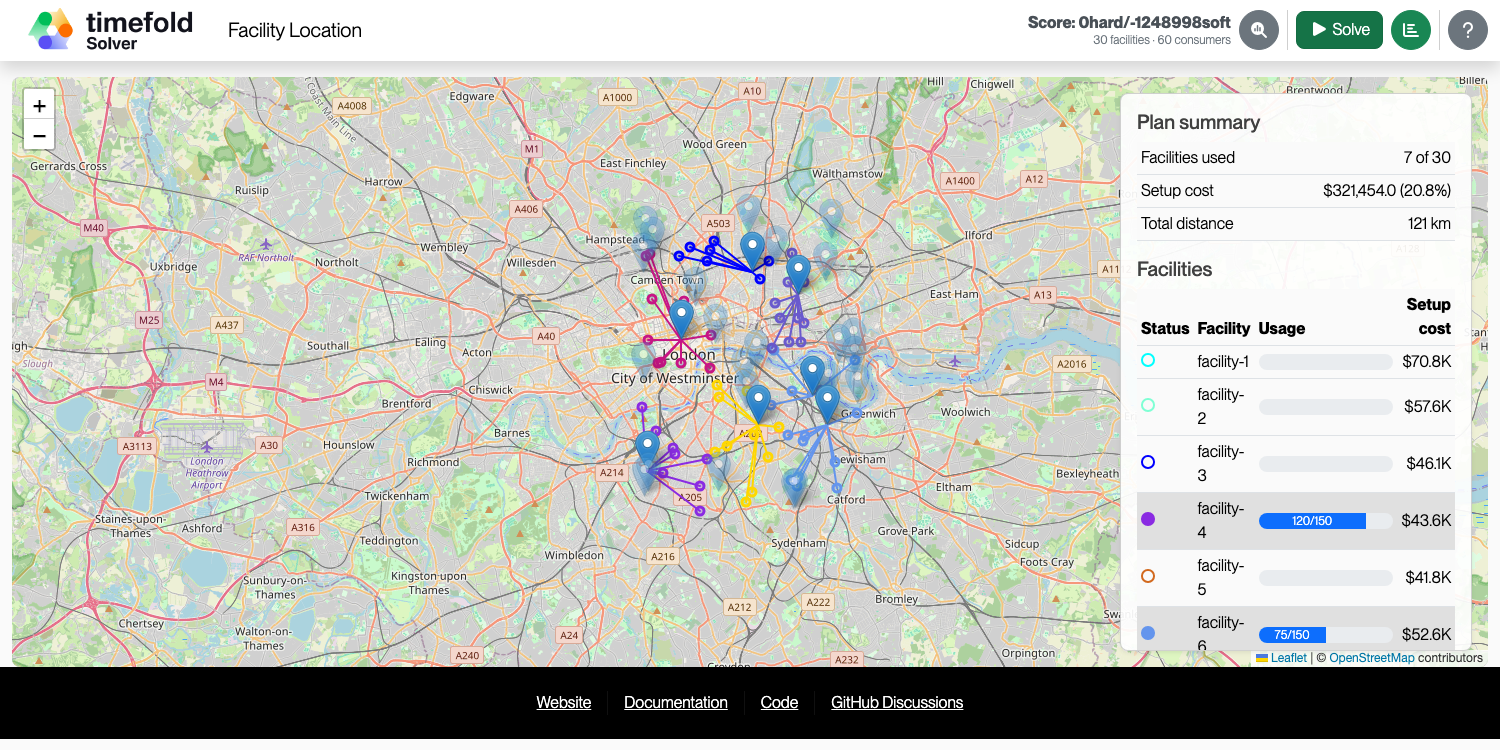
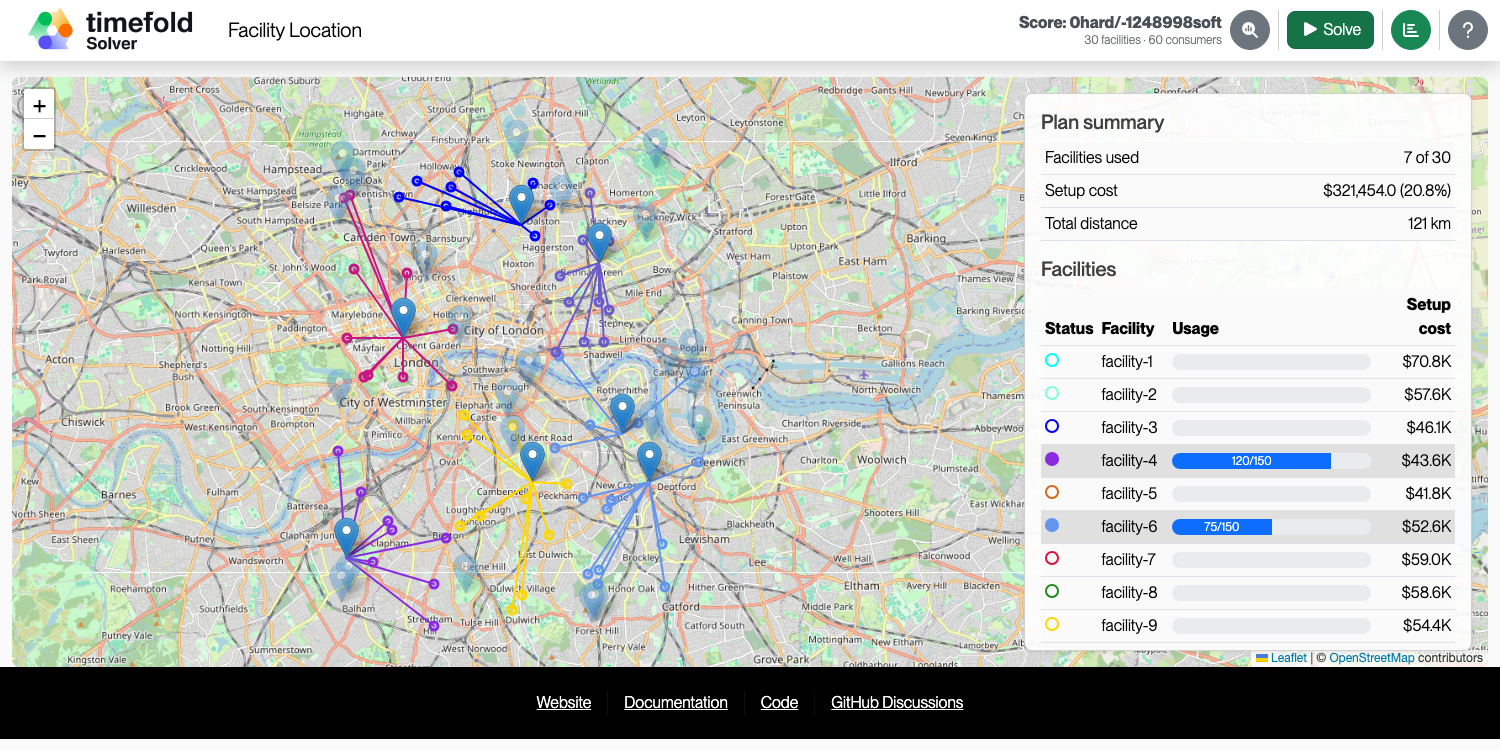
chore: minor review feedback

diff --git a/use-cases/facility-location/src/main/resources/META-INF/resources/visualize.js b/use-cases/facility-location/src/main/resources/META-INF/resources/visualize.js
@@ -42,7 +42,9 @@ const app = {
     </div>
 `);
 
-        this.map = L.map('map', {doubleClickZoom: false}).setView([51.505, -0.09], 12);
+        // A fractional zoomSnap lets fitBounds() zoom in as far as the data allows, instead of snapping down to the
+        // next whole zoom level and leaving up to half of the map empty.
+        this.map = L.map('map', {doubleClickZoom: false, zoomSnap: 0.25}).setView([51.505, -0.09], 12);
         L.tileLayer('https://{s}.tile.openstreetmap.org/{z}/{x}/{y}.png', {
             maxZoom: 19,
             attribution: '&copy; <a href="https://www.openstreetmap.org/">OpenStreetMap</a> contributors',
@@ -52,7 +54,7 @@ const app = {
         // Markers are reused across renders (a solving plan re-renders every 2 seconds), so the map does not
         // flicker and popups stay open while the solver keeps improving.
         this.facilityMarkerById = new Map();
-        this.boundsFitted = false;
+        this.fittedBounds = null;
 
         this.quickstartPage = new QuickstartPage({
             modelPath: '/v1/plans',
@@ -107,17 +109,45 @@ const app = {
     renderPlan(plan) {
         const facilityById = new Map(plan.facilities.map((facility) => [facility.id, facility]));
 
-        if (!this.boundsFitted && (plan.facilities.length > 0 || plan.consumers.length > 0)) {
-            // The input carries no bounding box, so the viewport is derived from the data itself.
-            const allLatLngs = [...plan.facilities, ...plan.consumers].map((point) => this.latLngOf(point.location));
-            this.map.invalidateSize();
-            this.map.fitBounds(L.latLngBounds(allLatLngs).pad(0.05));
-            this.boundsFitted = true;
-        }
-
+        this.fitBounds(plan);
         this.renderFacilities(plan);
         this.renderConsumers(plan, facilityById);
         this.renderSummary(plan);
+    },
+
+    // Only when the locations change (a new dataset): re-framing on every two-second refresh would undo whatever
+    // the user panned or zoomed to. The input carries no bounding box, so the viewport is derived from the data.
+    fitBounds(plan) {
+        const latLngs = [...plan.facilities, ...plan.consumers].map((point) => this.latLngOf(point.location));
+        if (latLngs.length === 0) {
+            return;
+        }
+        const boundsKey = JSON.stringify(latLngs);
+        if (this.fittedBounds === boundsKey) {
+            return;
+        }
+        this.fittedBounds = boundsKey;
+        // The map is constructed while the page body is still hidden, so Leaflet caches a 0x0 size; re-measure it.
+        this.map.invalidateSize();
+        const margin = 20;
+        // A facility pin sticks out above its location, so the top needs room for the whole icon.
+        const pinHeight = L.Icon.Default.prototype.options.iconSize[1];
+        this.map.fitBounds(L.latLngBounds(latLngs), {
+            paddingTopLeft: [margin, margin + pinHeight],
+            paddingBottomRight: [margin + this.summaryPanelOverlap(), margin],
+        });
+    },
+
+    // The plan summary floats over the right side of the map, so keep the data out from under it. On a narrow
+    // screen the panel covers most of the map, so there the data is fitted to the full map instead.
+    summaryPanelOverlap() {
+        const panel = document.getElementById('solutionSummaryPanel');
+        if (panel.classList.contains('hide')) {
+            return 0;
+        }
+        const mapRect = document.getElementById('map').getBoundingClientRect();
+        const overlap = mapRect.right - panel.getBoundingClientRect().left;
+        return overlap < mapRect.width / 2 ? overlap : 0;
     },
 
     renderFacilities(plan) {

diff --git a/use-cases/tournament-scheduling/src/main/resources/META-INF/resources/visualize.js b/use-cases/tournament-scheduling/src/main/resources/META-INF/resources/visualize.js
@@ -29,6 +29,7 @@ const app = {
         this.byTeamItemData = new vis.DataSet();
         this.byTeamTimeline = new vis.Timeline(document.getElementById("byTeamPanel"), this.byTeamItemData,
             this.byTeamGroupData, TIMELINE_OPTIONS);
+        this.fittedWindow = null;
 
         this.quickstartPage = new QuickstartPage({
             modelPath: '/v1/schedules',
@@ -118,12 +119,32 @@ const app = {
             });
         });
 
+        this.fitWindow(schedule);
+
         if (unassignedMatches.children().length === 0) {
             unassignedMatches.append($(`<div class="col-12"/>`)
                 .append($(`<div class="alert alert-success d-flex align-items-center justify-content-center" role="alert"/>`)
                     .append($(`<i class="fas fa-check-circle me-2"/>`))
                     .append($(`<span/>`).text("All matches have been assigned!"))));
         }
+    },
+
+    // The timeline is created before any data arrives, so it would otherwise keep its default window around
+    // today and hide most of the tournament. Only re-framed when the dates change (a new dataset): doing it on
+    // every two-second refresh would undo whatever the user scrolled or zoomed to.
+    fitWindow(schedule) {
+        const dates = [...schedule.matches, ...schedule.unavailabilities].map((item) => item.date).sort();
+        if (dates.length === 0) {
+            return;
+        }
+        const start = dates[0];
+        const end = JSJoda.LocalDate.parse(dates[dates.length - 1]).plusDays(1).toString();
+        const windowKey = `${start}/${end}`;
+        if (this.fittedWindow === windowKey) {
+            return;
+        }
+        this.fittedWindow = windowKey;
+        this.byTeamTimeline.setWindow(start, end, {animation: false});
     },
 };
 

diff --git a/use-cases/facility-location/src/main/resources/META-INF/resources/style.css b/use-cases/facility-location/src/main/resources/META-INF/resources/style.css
@@ -18,7 +18,7 @@
     top: 1rem;
     right: 1rem;
     z-index: 1001;
-    width: 22rem;
+    width: 28rem;
     max-width: calc(100% - 2rem);
     max-height: calc(100% - 2rem);
     overflow-y: auto;
